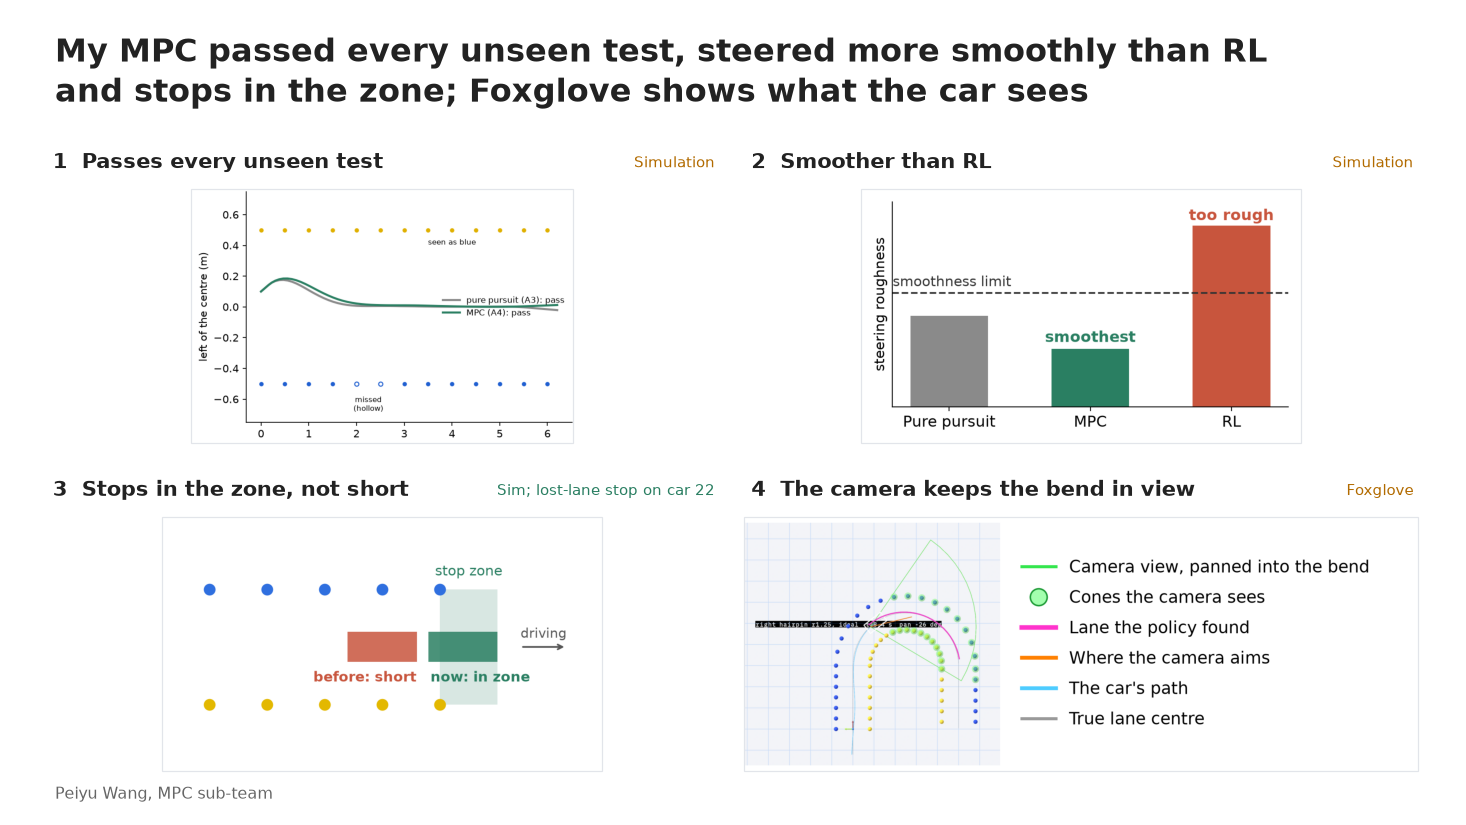
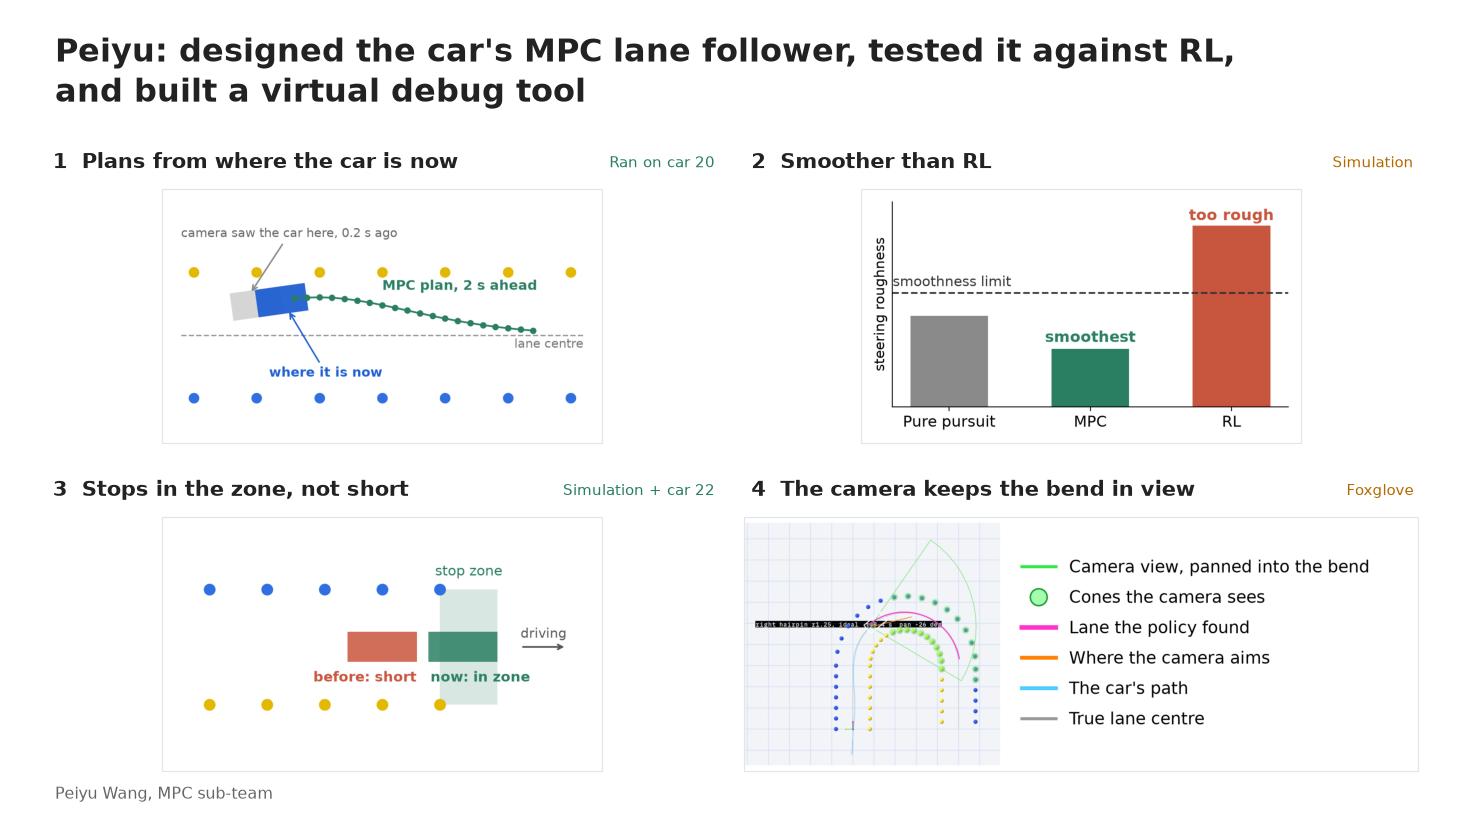
docs(logbook): Peiyu's slide, one picture per piece of work
- Headline: "Peiyu: designed the car's MPC lane follower, tested it against
  RL, and built a virtual debug tool".
- Panel 1 is now an MPC plan solved with the Stage 1 model and weights
  (mpc.py at 47f8838): where the camera saw the car, where it is now after
  the 0.2 s delay, and the plan 2 s ahead. Replaces the M1 path crop.
- Panel 4 keeps the Foxglove camera-pan screenshot with a key to its colours.
- Each tile's title and tag are separate text boxes, so a long title can't
  wrap onto the picture in PowerPoint.
- The one-minute script is in the speaker notes.

diff --git a/docs/logbook/peiyu/make_slide.py b/docs/logbook/peiyu/make_slide.py
@@ -4,7 +4,8 @@
 
 Assertion-evidence design (Michael Alley, Penn State): a one-sentence headline, then pictures as the evidence and
 very few words, so the audience reads no more than about 15 a minute. One picture per piece of work:
-1. the MPC driving a simulated unseen lane (cropped from figures/05_m1_unseen.png);
+1. what the MPC does each step: one plan solved with the Stage 1 model and weights (mpc.py at 47f8838), from a car
+   0.25 m left of centre and pointing 8 degrees left, moved forward by the 0.2 s detection age first;
 2. MPC against RL: worst steering roughness on the unseen cases against the smoothness limit (R4), values from
    docs/stage1-design.md M1, drawn without numbers;
 3. where the car stops at the lane end, before and with the A7 rule (typical simulated stops, figures/03_lane_end.png);
@@ -17,13 +18,17 @@ the slide can be checked without PowerPoint. The .pptx is the one to present.
 """
 from pathlib import Path
 
+import math
+
 import matplotlib
+import numpy as np
 matplotlib.use("Agg")
 import matplotlib.pyplot as plt  # noqa: E402
 from matplotlib.lines import Line2D  # noqa: E402
 from matplotlib.patches import FancyBboxPatch, Rectangle  # noqa: E402
 from pptx import Presentation  # noqa: E402
 from pptx.dml.color import RGBColor  # noqa: E402
+from pptx.enum.text import PP_ALIGN  # noqa: E402
 from pptx.util import Inches, Pt  # noqa: E402
 
 HERE = Path(__file__).resolve().parent
@@ -34,8 +39,7 @@ PREVIEW = HERE / "slide" / "peiyu-wang-slide.png"
 DARK, GREY = RGBColor(0x22, 0x22, 0x22), RGBColor(0x66, 0x66, 0x66)
 GREEN, AMBER = RGBColor(0x2A, 0x7F, 0x62), RGBColor(0xB2, 0x6B, 0x00)
 BAD, GOOD, NEUTRAL = "#c8553d", "#2a7f62", "#8a8a8a"
-HEADLINE = ("My MPC passed every unseen test, steered more smoothly than RL and stops in the zone; Foxglove shows "
-            "what the car sees")
+HEADLINE = "Peiyu: designed the car's MPC lane follower, tested it against RL, and built a virtual debug tool"
 NAME = "Peiyu Wang, MPC sub-team"
 NOTES = """\
 I'm Peiyu, on the MPC sub-team. My part turns the lane into a speed and a curvature for Chris's controller, once \
@@ -56,6 +60,8 @@ the camera's view, turned into the bend, so the policy still finds the lane, in 
 TILE_W, TILE_H, TOP, LEFT, GAP = 6.15, 2.78, 1.3, 0.4, 0.2
 """Each tile's size, the grid's top left corner and the gap between tiles, in inches."""
 CAPTION_H = 0.42
+TAG_W = 1.9
+"""Width of each tile's tag, right-aligned beside its title, in inches."""
 
 
 def crop(name: str, rows: tuple[float, float], columns: tuple[float, float], out: str) -> Path:
@@ -64,6 +70,61 @@ def crop(name: str, rows: tuple[float, float], columns: tuple[float, float], out
     height, width = image.shape[:2]
     path = TILES / out
     plt.imsave(path, image[int(rows[0] * height):int(rows[1] * height), int(columns[0] * width):int(columns[1] * width)])
+    return path
+
+
+def mpc_plan() -> Path:
+    """One MPC plan, solved as in policy/action_policy/mpc.py at 47f8838 (the Stage 1 design: N = 20 steps of
+    0.1 s at 1 m/s, weights 3/1/0.1/3, straight lane, previous curvature 0). The bounds (|curvature| <= 3 1/m) are
+    not reached, so plain least squares gives the same plan as bvls."""
+    steps, speed, step_s, age = 20, 1.0, 0.1, 0.2
+    weights = {"lateral": 3.0, "heading": 1.0, "curvature": 0.1, "change": 3.0}
+    seen_lateral, heading = 0.25, math.radians(8.0)
+    d = speed * step_s
+    step = np.array([[1.0, d], [0.0, 1.0]])
+    effect = np.array([d * d / 2.0, d])
+    free = np.vstack([np.linalg.matrix_power(step, k + 1) for k in range(steps)])
+    forced = np.zeros((2 * steps, steps))
+    for k in range(steps):
+        for j in range(k + 1):
+            forced[2 * k:2 * k + 2, j] = np.linalg.matrix_power(step, k - j) @ effect
+    state_weights = np.sqrt(np.tile([weights["lateral"], weights["heading"]], steps))
+    now = np.array([seen_lateral + speed * age * heading, heading])
+    cost = np.vstack([state_weights[:, None] * forced, math.sqrt(weights["curvature"]) * np.eye(steps),
+                      math.sqrt(weights["change"]) * (np.eye(steps) - np.eye(steps, k=-1))])
+    target = np.concatenate([-state_weights * (free @ now), np.zeros(2 * steps)])
+    curvatures = np.linalg.lstsq(cost, target, rcond=None)[0]
+    assert np.max(np.abs(curvatures)) < 3.0
+    lateral = (free @ now + forced @ curvatures)[0::2]
+    figure, axis = plt.subplots(figsize=(5.2, 3.0))
+    for x in np.arange(-0.5, 2.75, 0.5):
+        axis.plot(x, 0.5, "o", color="#e3b800", ms=8)
+        axis.plot(x, -0.5, "o", color="#2f6fdf", ms=8)
+    axis.plot([-0.6, 2.6], [0, 0], ls="--", color="#999999", lw=1.2)
+    axis.text(2.6, -0.1, "lane centre", ha="right", fontsize=10.5, color="#777777")
+
+    def car(x, y, colour, alpha):
+        axis.add_patch(Rectangle((x - 0.2, y - 0.11), 0.4, 0.22, angle=math.degrees(heading), rotation_point="center",
+                                 color=colour, alpha=alpha, lw=0))
+
+    car(0.0, seen_lateral, "#888888", 0.35)
+    car(speed * age, now[0], "#1f5fd1", 0.95)
+    xs = speed * age + d * np.arange(1, steps + 1)
+    axis.plot(xs, lateral, "o-", color=GOOD, ms=4.5, lw=1.5)
+    arrow = dict(arrowstyle="->", lw=1.3)
+    axis.annotate("camera saw the car here, 0.2 s ago", xy=(-0.05, 0.33), xytext=(-0.6, 0.78), fontsize=10.5,
+                  color="#666666", arrowprops=arrow | {"color": "#888888"})
+    axis.annotate("where it is now", xy=(0.25, 0.2), xytext=(0.1, -0.33), fontsize=11, weight="bold",
+                  color="#1f5fd1", arrowprops=arrow | {"color": "#1f5fd1"})
+    axis.text(1.0, 0.36, "MPC plan, 2 s ahead", fontsize=11.5, weight="bold", color=GOOD)
+    axis.set_xlim(-0.65, 2.65)
+    axis.set_ylim(-0.6, 0.9)
+    axis.set_aspect("equal")
+    axis.axis("off")
+    figure.tight_layout()
+    path = TILES / "mpc_plan.png"
+    figure.savefig(path, dpi=200)
+    plt.close(figure)
     return path
 
 
@@ -144,10 +205,9 @@ def tiles() -> list[tuple[Path, str, str, RGBColor]]:
     """:return: (picture, title, where it was shown, tag colour) for each tile, in reading order."""
     TILES.mkdir(parents=True, exist_ok=True)
     return [
-        (crop("05_m1_unseen.png", (0.06, 0.90), (0.0, 0.41), "mpc_lane.png"), "Passes every unseen test",
-         "Simulation", AMBER),
+        (mpc_plan(), "Plans from where the car is now", "Ran on car 20", GREEN),
         (mpc_or_rl(), "Smoother than RL", "Simulation", AMBER),
-        (lane_end(), "Stops in the zone, not short", "Sim; lost-lane stop on car 22", GREEN),
+        (lane_end(), "Stops in the zone, not short", "Simulation + car 22", GREEN),
         (foxglove_pan(), "The camera keeps the bend in view", "Foxglove", AMBER),
     ]
 
@@ -164,9 +224,10 @@ def placement(index: int, path: Path) -> tuple[float, float, float, float, float
     return left, top, left + (TILE_W - width) / 2, top + CAPTION_H, width, height
 
 
-def text_box(slide, x, y, w, h, runs):
+def text_box(slide, x, y, w, h, runs, align=PP_ALIGN.LEFT):
     frame = slide.shapes.add_textbox(Inches(x), Inches(y), Inches(w), Inches(h)).text_frame
     frame.word_wrap = True
+    frame.paragraphs[0].alignment = align
     for text, size, bold, colour in runs:
         run = frame.paragraphs[0].add_run()
         run.text = text
@@ -180,8 +241,8 @@ def pptx(pictures):
     text_box(slide, 0.4, 0.2, 12.5, 1.1, [(HEADLINE, 26, True, DARK)])
     for i, (path, title, tag, colour) in enumerate(pictures):
         left, top, x, y, width, height = placement(i, path)
-        text_box(slide, left, top, TILE_W, CAPTION_H, [(f"{i + 1}  {title}", 16, True, DARK), (f"    {tag}", 11, False,
-                                                                                                    colour)])
+        text_box(slide, left, top, TILE_W - TAG_W, CAPTION_H, [(f"{i + 1}  {title}", 16, True, DARK)])
+        text_box(slide, left + TILE_W - TAG_W, top + 0.05, TAG_W, CAPTION_H, [(tag, 11, False, colour)], PP_ALIGN.RIGHT)
         slide.shapes.add_picture(str(path), Inches(x), Inches(y), width=Inches(width), height=Inches(height))
     text_box(slide, 0.4, 7.12, 6, 0.3, [(NAME, 11, False, GREY)])
     slide.notes_slide.notes_text_frame.text = NOTES
@@ -196,8 +257,7 @@ def preview(pictures):
     axis.set_xlim(0, 13.333)
     axis.set_ylim(7.5, 0)
     axis.axis("off")
-    axis.text(0.5, 0.3, "My MPC passed every unseen test, steered more smoothly than RL\nand stops in the zone; "
-              "Foxglove shows what the car sees", fontsize=21, weight="bold", color=f"#{DARK}", va="top", linespacing=1.25)
+    axis.text(0.5, 0.3, "Peiyu: designed the car's MPC lane follower, tested it against RL,\nand built a virtual debug tool", fontsize=21, weight="bold", color=f"#{DARK}", va="top", linespacing=1.25)
     for i, (path, title, tag, colour) in enumerate(pictures):
         left, top, x, y, width, height = placement(i, path)
         axis.text(left + 0.08, top + 0.08, f"{i + 1}  {title}", fontsize=14, weight="bold", color=f"#{DARK}",
